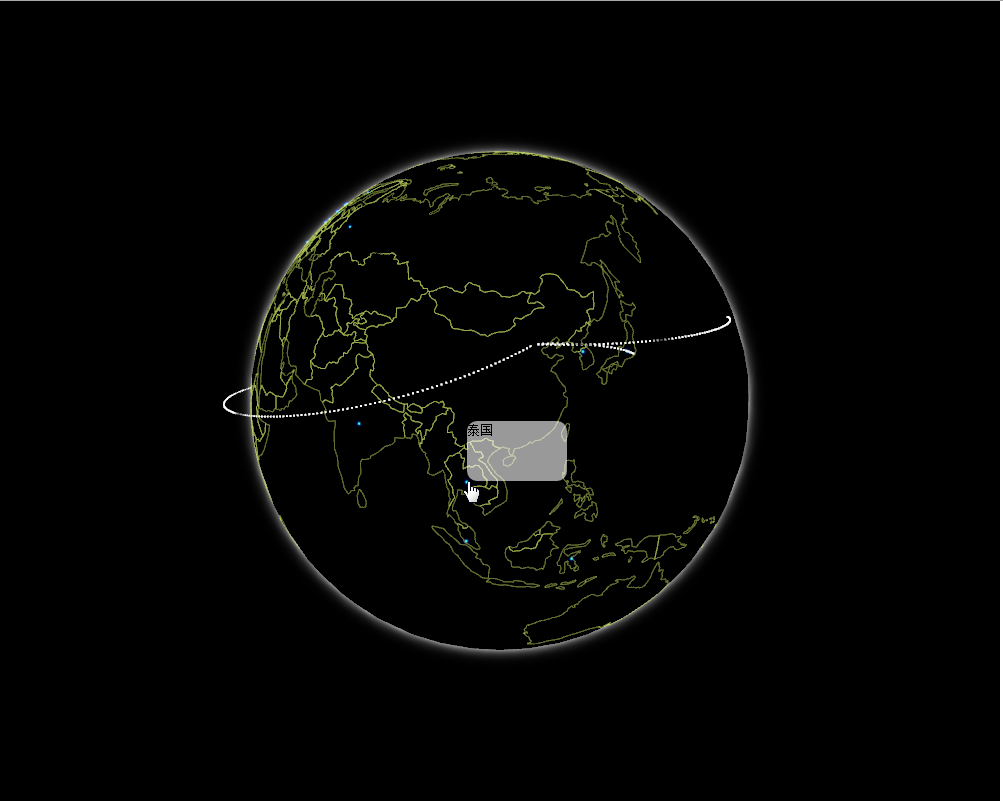
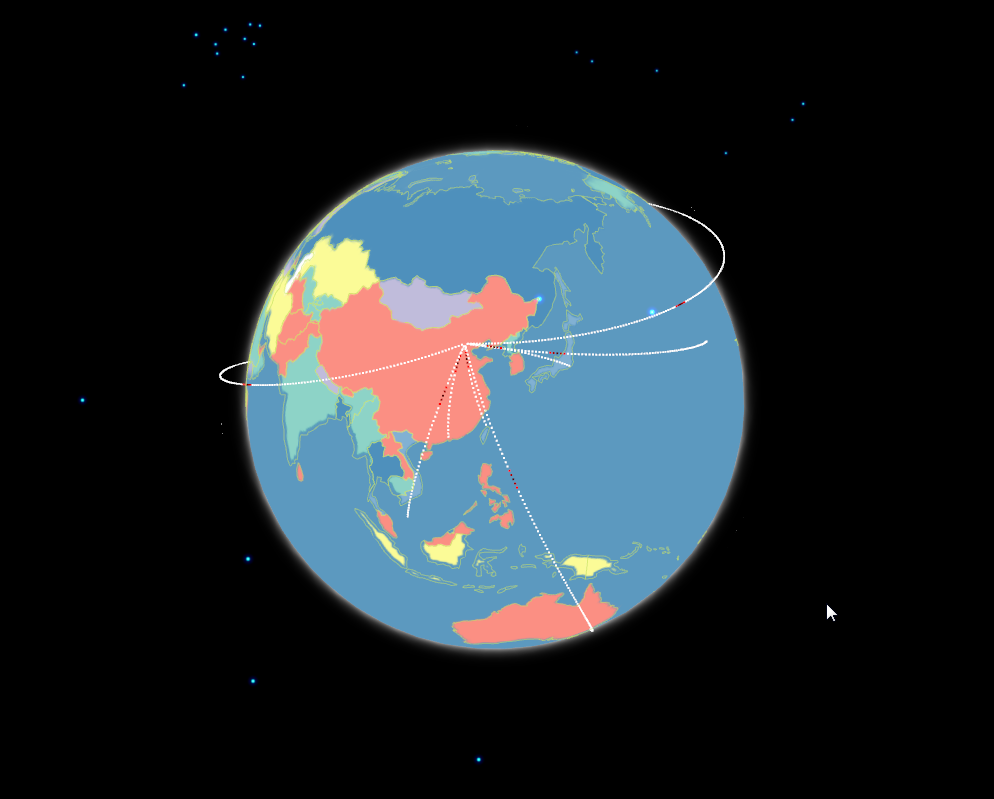
修改飞线代码

Changed region(s): [[0.2183, 0.1802, 0.7485, 0.811], [0.998, 0.0, 1.0, 1.0], [0.8109, 0.7509, 0.8421, 0.781]]

diff --git a/globe.js b/globe.js
@@ -4,7 +4,7 @@ VAG.Globe = function (container, opts) {
     var Shaders = {
         'earth': {
             uniforms: {
-                'texture': { type: 't', value: null }
+                'texture': {type: 't', value: null}
             },
             vertexShader: [
                 'varying vec3 vNormal;',
@@ -53,10 +53,10 @@ VAG.Globe = function (container, opts) {
 
     var curZoomSpeed = 0;
 
-    var mouse = { x: 0, y: 0 }, mouseOnDown = { x: 0, y: 0 };
-    var rotation = { x: 0, y: 0 },
-        target = { x: Math.PI * 1.2 / 2, y: Math.PI / 6.0 },
-        targetOnDown = { x: 0, y: 0 };
+    var mouse = {x: 0, y: 0}, mouseOnDown = {x: 0, y: 0};
+    var rotation = {x: 0, y: 0},
+        target = {x: Math.PI * 1.2 / 2, y: Math.PI / 6.0},
+        targetOnDown = {x: 0, y: 0};
 
     var distance = 8000, distanceTarget = 800;
     var PI_HALF = Math.PI / 2;
@@ -93,9 +93,9 @@ VAG.Globe = function (container, opts) {
             color: 0x000000
         });
         geometry = new THREE.SphereGeometry(radius, 40, 30);
-        // earthGlobe = new THREE.Mesh(geometry, material);
+        //earthGlobe = new THREE.Mesh(geometry, material);
         earthGlobe = createMesh(geometry, "./worldMap.png");
-        earthGlobe.rotation.y = - Math.PI / 2;
+        earthGlobe.rotation.y = -Math.PI / 2;
         scene.add(earthGlobe);
 
         shader = Shaders['atmosphere'];
@@ -114,7 +114,7 @@ VAG.Globe = function (container, opts) {
         mesh.scale.set(1.1, 1.1, 1.1);
         scene.add(mesh);
 
-        renderer = new THREE.WebGLRenderer({ antialias: true });
+        renderer = new THREE.WebGLRenderer({antialias: true});
         renderer.setSize(w, h);
         renderer.setClearColor(0x000000);
 
@@ -123,19 +123,99 @@ VAG.Globe = function (container, opts) {
         drawDataSource();
 
 
-        var dst = { lng: 116, lat: 40 };
-        var src = { lng: -43, lat: -22 };
-        flightLine(src, dst);
+        //var dst = {lng: 116, lat: 40};
+        //var src = {lng: -43, lat: -22};
+        //flightLine(src, dst);
+        //
+        //src = {lng: -179, lat: 30};
+        //dst = {lng: 116, lat: 40};
+        ///*ToDo*/
+        //flightLine(src, dst);
+        //
+        //src = {lng: 140, lat: 35};
+        //dst = {lng: 116, lat: 40};
+        ///*ToDo*/
+        //flightLine(src, dst);
 
-        src = { lng: -179, lat: 30 };
-        dst = { lng: 116, lat: 40 };
-        /*ToDo*/
-        flightLine(src, dst);
 
-        src = { lng: 140, lat: 35 };
-        dst = { lng: 116, lat: 40 };
-        /*ToDo*/
-        flightLine(src, dst);
+        var flight = [{
+            dst: {
+                lng: 116,
+                lat: 40
+            },
+            src: {
+                lng: -43,
+                lat: -22
+            }
+        }, {
+            dst: {
+                lng: 116,
+                lat: 40
+            },
+            src: {
+                lng: -179,
+                lat: 30
+            }
+        }, {
+            dst: {
+                lng: 116,
+                lat: 40
+            },
+            src: {
+                lng: 140,
+                lat: 35
+            }
+        }, {
+            dst: {
+                lng: 116,
+                lat: 40
+            },
+            src: {
+                lng: 114,
+                lat: 22.5
+            }
+        }, {
+            dst: {
+                lng: 116,
+                lat: 40
+            },
+            src: {
+                lng: 121.5,
+                lat: 25
+            }
+        }, {
+            dst: {
+                lng: 116,
+                lat: 40
+            },
+            src: {
+                lng: 106.5,
+                lat: 6.2
+            }
+        }, {
+            dst: {
+                lng: 116,
+                lat: 40
+            },
+            src: {
+                lng: -77,
+                lat: 39
+            }
+        }, {
+            dst: {
+                lng: 116,
+                lat: 40
+            },
+            src: {
+                lng: 149,
+                lat: -35
+            }
+        }];
+
+        for (var index = 0; index < flight.length; index++) {
+            var line = flight[index];
+            flightLine(line["src"], line["dst"]);
+        }
 
         // var link = new Link(116.4, 39.9, 121, 25, 0xff0000, radius);
         // var line = link.create();
@@ -293,25 +373,25 @@ VAG.Globe = function (container, opts) {
         renderer.setSize(window.innerWidth, window.innerHeight);
     })
 
-    $("#container").on("dblclick", function (event) {
-        // var vector = new THREE.Vector3(((event.clientX) / parseInt($("#container").css("width"))) * 2 - 1,
-        //     -((event.clientY) / parseInt($("#container").css("height"))) * 2 + 1, 0.1);
-
-        // vector.unproject(camera);
-
-        // var raycaster = new THREE.Raycaster(camera.position, vector.sub(camera.position).normalize());
-        // var intersects = raycaster.intersectObject(earthGlobe);
-        // console.log(intersects.length)
-        // if(intersects.length > 0){
-        //     console.log("hahha");
-        // }
-        distanceTarget = 300;
-        $("#container").animate({
-            "opacity": 0
-        }, 1200, function () {
-            window.location.href = "../index.html"
-        });
-    });
+    //$("#container").on("dblclick", function (event) {
+    //    // var vector = new THREE.Vector3(((event.clientX) / parseInt($("#container").css("width"))) * 2 - 1,
+    //    //     -((event.clientY) / parseInt($("#container").css("height"))) * 2 + 1, 0.1);
+    //
+    //    // vector.unproject(camera);
+    //
+    //    // var raycaster = new THREE.Raycaster(camera.position, vector.sub(camera.position).normalize());
+    //    // var intersects = raycaster.intersectObject(earthGlobe);
+    //    // console.log(intersects.length)
+    //    // if(intersects.length > 0){
+    //    //     console.log("hahha");
+    //    // }
+    //    distanceTarget = 300;
+    //    $("#container").animate({
+    //        "opacity": 0
+    //    }, 1200, function () {
+    //        window.location.href = "../index.html"
+    //    });
+    //});
 
     function zoom(delta) {
         distanceTarget -= delta;
@@ -499,7 +579,7 @@ VAG.Globe = function (container, opts) {
             "mousemove": function (event) {
                 if (dataSource != null) {
                     var vector = new THREE.Vector3(((event.clientX) / parseInt($("#globe").css("width"))) * 2 - 1,
-                        -((event.clientY) / parseInt($("#globe").css("height"))) * 2 + 1, 0.1);
+                        -((event.clientY ) / parseInt($("#globe").css("height"))) * 2 + 1, 0.1);
 
                     vector.unproject(camera);
 
@@ -559,8 +639,8 @@ VAG.Globe = function (container, opts) {
     }
 
     function animateDataSource() {
-        var tween = new TWEEN.Tween({ radius: dstRadius })
-            .to({ radius: radius }, 3500)
+        var tween = new TWEEN.Tween({radius: dstRadius})
+            .to({radius: radius}, 3500)
             .easing(TWEEN.Easing.Quadratic.InOut)
             .onUpdate(function () {
                 var r = this.radius;
@@ -595,7 +675,7 @@ VAG.Globe = function (container, opts) {
 
         camera.lookAt(new THREE.Vector3(0, 0, 0));
 
-        // scene.rotation.y -= 0.005;
+        scene.rotation.y -= 0.002;
         renderer.render(scene, camera);
     }
 
@@ -658,7 +738,7 @@ VAG.Globe = function (container, opts) {
          所求曲线需要高出球面，设定中间点最高，超出球面直线高度为h，两边依次递减至球面，为得到尽量光滑的曲线，考虑高度变化为等差数列
          * */
         if (Math.abs(src["lng"] - dst["lng"]) > 180) {
-            number = Math.ceil(Math.abs(-180 - src["lng"] - (180 - dst["lng"])) / 0.9);
+            number = Math.ceil(Math.abs(-180 - src["lng"] - (180 - dst["lng"])) / 0.7);
 
             var num1, num2;
             var a1, a2;
@@ -704,10 +784,10 @@ VAG.Globe = function (container, opts) {
             });
 
         } else {
-            if (Math.abs(src["lng"] - dst["lng"]) > Math.abs(src["lat"]) - dst["lat"]) {
-                number = Math.ceil(Math.abs(src["lng"] - dst["lng"]) / 0.9);
+            if (Math.abs(src["lng"] - dst["lng"]) > Math.abs(src["lat"] - dst["lat"])) {
+                number = Math.ceil(Math.abs(src["lng"] - dst["lng"]) / 0.7);
             } else {
-                number = Math.ceil(Math.abs(src["lat"] - dst["lat"]) / 0.9);
+                number = Math.ceil(Math.abs(src["lat"] - dst["lat"]) / 0.7);
             }
 
             var lngP = Math.abs(src["lng"] - dst["lng"]) / number;
@@ -775,11 +855,11 @@ VAG.Globe = function (container, opts) {
              */
             if (index <= number / 2) {
                 //r = radius + index * radius / (number / 2 * 10);
-                r = radius + 4 * h / (number + 2) * index - (index * (index - 1) / 2) * 8 * h / (Math.pow(number, 2) + 2 * number);
+                r = radius + 4 * h / (number + 2) * index - (index * (index - 1 ) / 2) * 8 * h / (Math.pow(number, 2) + 2 * number );
             } else {
                 //r = radius + radius / 10 - (index - number / 2) * radius / (number / 2 * 10);
                 var i = number - index;
-                r = radius + 4 * h / (number + 2) * i - (i * (i - 1) / 2) * 8 * h / (Math.pow(number, 2) + 2 * number);
+                r = radius + 4 * h / (number + 2) * i - (i * (i - 1 ) / 2) * 8 * h / (Math.pow(number, 2) + 2 * number );
             }
 
             var coor = LngLat2Coordinate(segments[index]["lng"], segments[index]["lat"], r);
@@ -798,8 +878,8 @@ VAG.Globe = function (container, opts) {
 
         var flightPoints = new THREE.Points(flightPointsGeometry, flightPointsMaterial);
 
-        var tween = new TWEEN.Tween({ num: 0 })
-            .to({ num: flightPoints.geometry.colors.length }, 3500)
+        var tween = new TWEEN.Tween({num: 0})
+            .to({num: flightPoints.geometry.colors.length}, 3500)
             .easing(TWEEN.Easing.Linear.None)
             .onUpdate(function () {
                 var n = Math.floor(this.num);
@@ -816,11 +896,11 @@ VAG.Globe = function (container, opts) {
                     if (index == n) {
                         //flightPoints.geometry.colors[index].set(new THREE.Color(0x00a0e9));
                         try {
-                            flightPoints.geometry.colors[index].set(new THREE.Color(0xaaaaaa));
-                            flightPoints.geometry.colors[index + 1].set(new THREE.Color(0x999999));
-                            flightPoints.geometry.colors[index + 2].set(new THREE.Color(0x555555));
-                            flightPoints.geometry.colors[index + 3].set(new THREE.Color(0x999999));
-                            flightPoints.geometry.colors[index + 4].set(new THREE.Color(0xaaaaaa));
+                            flightPoints.geometry.colors[index].set(new THREE.Color(0xff0000));
+                            flightPoints.geometry.colors[index + 1].set(new THREE.Color(0xaa0000));
+                            flightPoints.geometry.colors[index + 2].set(new THREE.Color(0x550000));
+                            flightPoints.geometry.colors[index + 3].set(new THREE.Color(0xaa0000));
+                            flightPoints.geometry.colors[index + 4].set(new THREE.Color(0xff0000));
                             index += 4;
                         } catch (e) {
 
